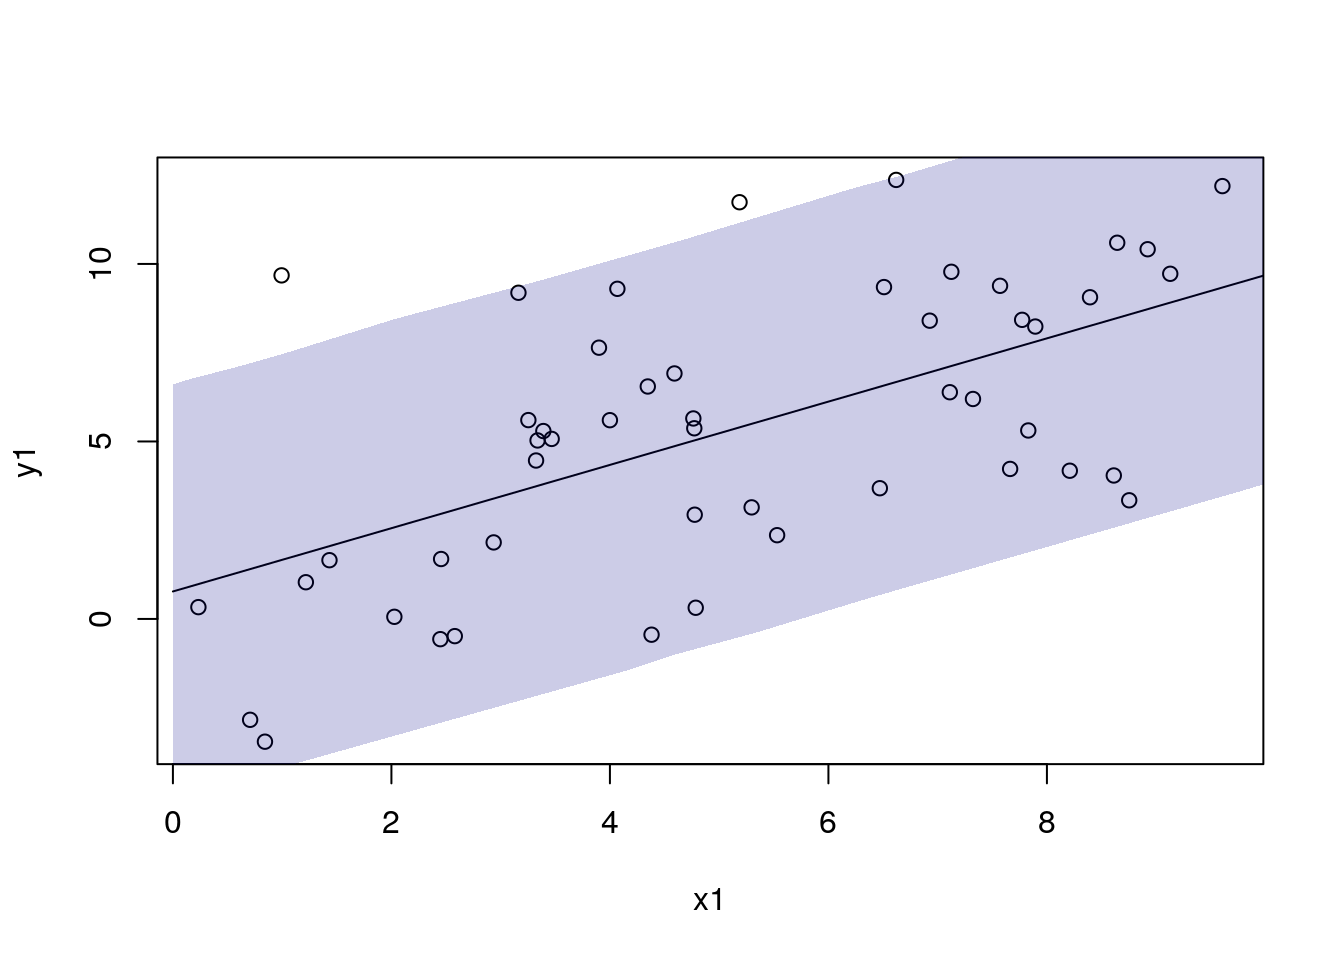
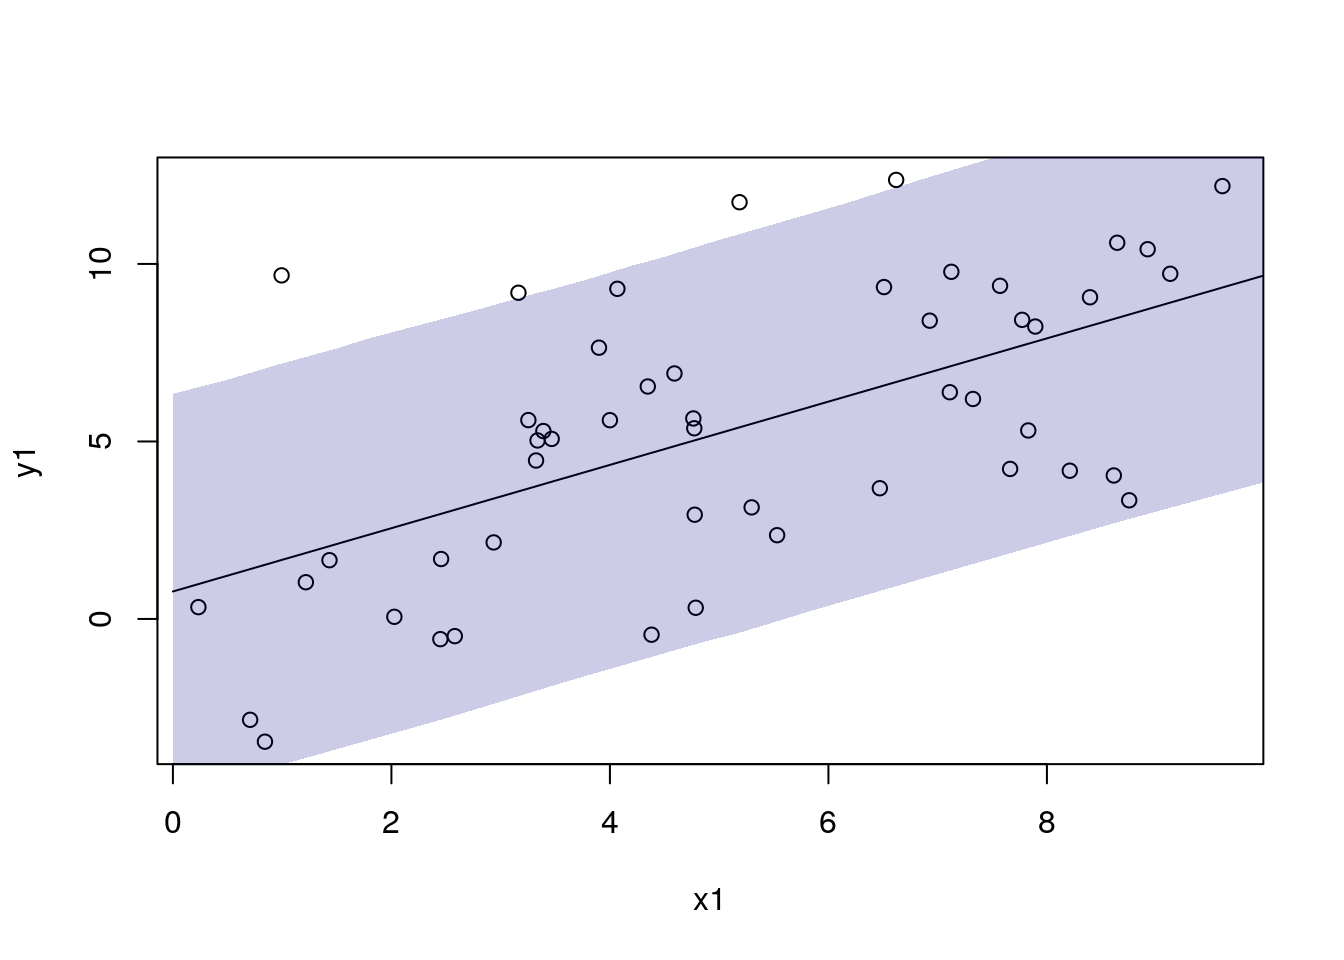
Updated

diff --git a/docs/mrbrt.html b/docs/mrbrt.html
@@ -5,26 +5,26 @@
   <meta charset="utf-8" />
   <meta http-equiv="X-UA-Compatible" content="IE=edge" />
   <title>Chapter 3 MR-BRT | Health Metrics Toolbox</title>
-  <meta name="description" content="A guide to statistical tools developed by IHME’s Math Sciences team, led by Aleksandr Aravkin and Peng Zheng" />
+  <meta name="description" content="A guide to statistical tools developed by IHME’s Math Sciences team" />
   <meta name="generator" content="bookdown 0.22 and GitBook 2.6.7" />
 
   <meta property="og:title" content="Chapter 3 MR-BRT | Health Metrics Toolbox" />
   <meta property="og:type" content="book" />
   
   
-  <meta property="og:description" content="A guide to statistical tools developed by IHME’s Math Sciences team, led by Aleksandr Aravkin and Peng Zheng" />
+  <meta property="og:description" content="A guide to statistical tools developed by IHME’s Math Sciences team" />
   <meta name="github-repo" content="rsoren/health_metrics_toolbox" />
 
   <meta name="twitter:card" content="summary" />
   <meta name="twitter:title" content="Chapter 3 MR-BRT | Health Metrics Toolbox" />
   
-  <meta name="twitter:description" content="A guide to statistical tools developed by IHME’s Math Sciences team, led by Aleksandr Aravkin and Peng Zheng" />
+  <meta name="twitter:description" content="A guide to statistical tools developed by IHME’s Math Sciences team" />
   
 
 <meta name="author" content="Maintained by Reed Sorensen (rsoren@uw.edu)" />
 
 
-<meta name="date" content="2021-07-08" />
+<meta name="date" content="2021-07-12" />
 
   <meta name="viewport" content="width=device-width, initial-scale=1" />
   <meta name="apple-mobile-web-app-capable" content="yes" />
@@ -169,6 +169,12 @@ code span.wa { color: #60a0b0; font-weight: bold; font-style: italic; } /* Warni
 <li class="chapter" data-level="4.2" data-path="xwalk.html"><a href="xwalk.html#ex2"><i class="fa fa-check"></i><b>4.2</b> Example 2: one reference and multiple alternatives, with indirect comparisons</a></li>
 <li class="chapter" data-level="4.3" data-path="xwalk.html"><a href="xwalk.html#ex3"><i class="fa fa-check"></i><b>4.3</b> Example 3: one reference and multiple alternatives; alternatives composed of sub-definitions</a></li>
 <li class="chapter" data-level="4.4" data-path="xwalk.html"><a href="xwalk.html#ex4"><i class="fa fa-check"></i><b>4.4</b> Funnel plots and dose-response plots</a></li>
+</ul></li>
+<li class="chapter" data-level="5" data-path="troubleshooting.html"><a href="troubleshooting.html"><i class="fa fa-check"></i><b>5</b> Troubleshooting</a>
+<ul>
+<li class="chapter" data-level="5.0.1" data-path="troubleshooting.html"><a href="troubleshooting.html#what-does-this-error-message-mean"><i class="fa fa-check"></i><b>5.0.1</b> What does this error message mean?</a></li>
+<li class="chapter" data-level="5.0.2" data-path="troubleshooting.html"><a href="troubleshooting.html#why-do-my-predictions-look-bad"><i class="fa fa-check"></i><b>5.0.2</b> Why do my predictions look bad?</a></li>
+<li class="chapter" data-level="5.0.3" data-path="troubleshooting.html"><a href="troubleshooting.html#how-do-i-make-a-reproducible-example"><i class="fa fa-check"></i><b>5.0.3</b> How do I make a reproducible example?</a></li>
 </ul></li>
 <li class="divider"></li>
 <li><a href="https://github.com/rstudio/bookdown" target="blank">Published with bookdown</a></li>
@@ -486,7 +492,7 @@ code span.wa { color: #60a0b0; font-weight: bold; font-style: italic; } /* Warni
 <span id="cb15-13"><a href="mrbrt.html#cb15-13" aria-hidden="true" tabindex="-1"></a>      <span class="co"># spline_knots = array(c(0, 0.25, 0.5, 0.75, 1)),</span></span>
 <span id="cb15-14"><a href="mrbrt.html#cb15-14" aria-hidden="true" tabindex="-1"></a>      <span class="at">spline_knots =</span> <span class="fu">array</span>(<span class="fu">seq</span>(<span class="dv">0</span>, <span class="dv">1</span>, <span class="at">by =</span> <span class="fl">0.2</span>)),</span>
 <span id="cb15-15"><a href="mrbrt.html#cb15-15" aria-hidden="true" tabindex="-1"></a>      <span class="at">spline_degree =</span> 2L,</span>
-<span id="cb15-16"><a href="mrbrt.html#cb15-16" aria-hidden="true" tabindex="-1"></a>      <span class="at">spline_knots_type =</span> <span class="st">&#39;frequency&#39;</span>,</span>
+<span id="cb15-16"><a href="mrbrt.html#cb15-16" aria-hidden="true" tabindex="-1"></a>      <span class="at">spline_knots_type =</span> <span class="st">&#39;domain&#39;</span>,</span>
 <span id="cb15-17"><a href="mrbrt.html#cb15-17" aria-hidden="true" tabindex="-1"></a>      <span class="at">spline_r_linear =</span> <span class="cn">TRUE</span>,</span>
 <span id="cb15-18"><a href="mrbrt.html#cb15-18" aria-hidden="true" tabindex="-1"></a>      <span class="at">spline_l_linear =</span> <span class="cn">FALSE</span></span>
 <span id="cb15-19"><a href="mrbrt.html#cb15-19" aria-hidden="true" tabindex="-1"></a>      <span class="co"># prior_spline_monotonicity = &#39;increasing&#39;</span></span>
